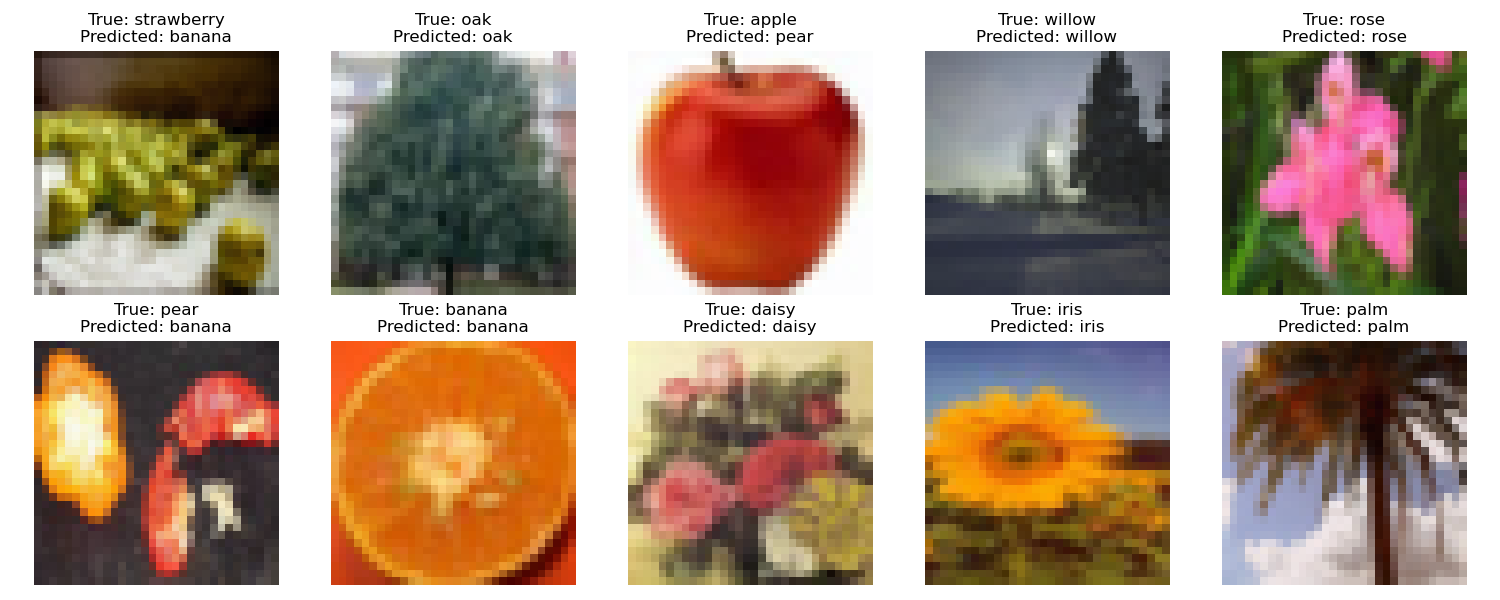
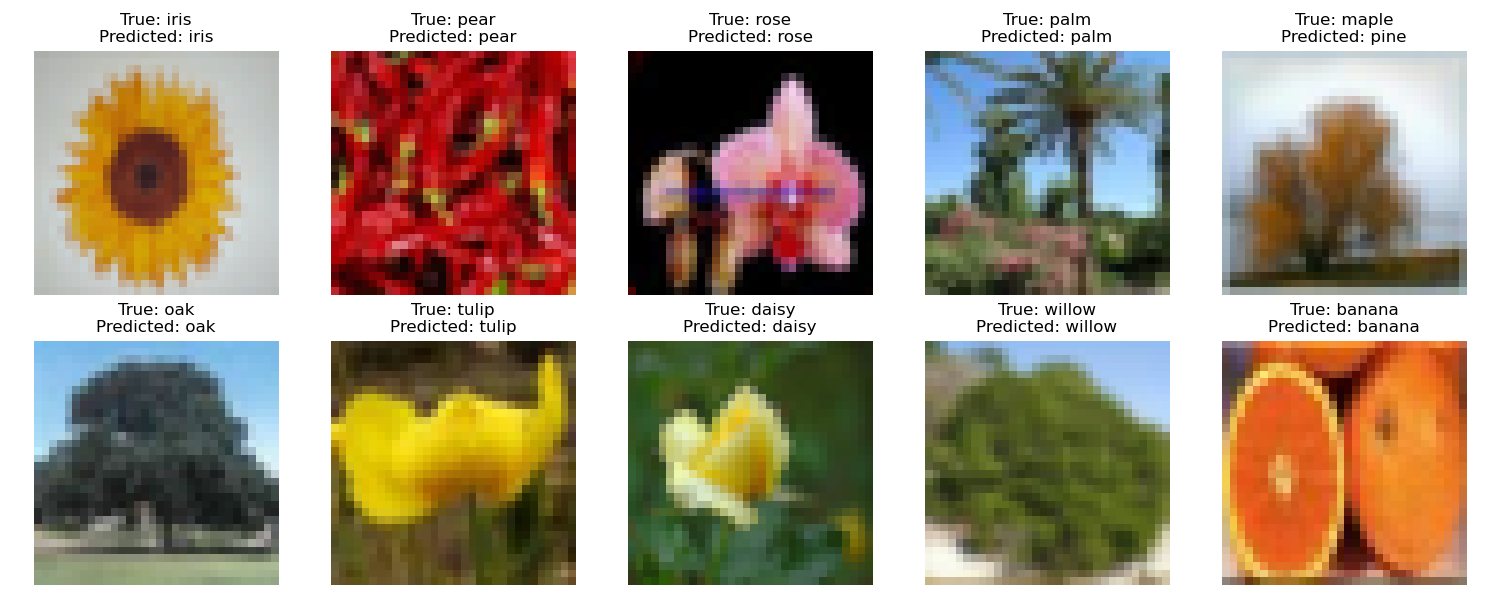
feat: add evaluation.py script and readme

diff --git a/evaluation.py b/evaluation.py
@@ -1,0 +1,63 @@
+#!/usr/bin/env python3
+import os
+import subprocess
+import time
+
+def run_evaluation():
+    """
+    Run both Task A and Task B evaluation scripts sequentially
+    and open the generated images.
+    """
+    print("=" * 50)
+    print("Starting evaluation for Task A...")
+    print("=" * 50)
+    
+    # Run Task A evaluation
+    subprocess.run(["python", "evaluate_task_a.py"], check=True)
+    
+    # Wait a moment to ensure files are saved
+    time.sleep(1)
+    
+    # Open Task A images
+    task_a_sample_predictions = "evaluation/TaskA/sample_predictions.png"
+    task_a_expert_analysis = "evaluation/TaskA/expert_analysis.png"
+    
+    if os.path.exists(task_a_sample_predictions):
+        print(f"\nOpening {task_a_sample_predictions}...")
+        subprocess.Popen(["open", task_a_sample_predictions])
+    
+    if os.path.exists(task_a_expert_analysis):
+        print(f"Opening {task_a_expert_analysis}...")
+        subprocess.Popen(["open", task_a_expert_analysis])
+    
+    # Wait a moment before starting Task B
+    time.sleep(2)
+    
+    print("\n" + "=" * 50)
+    print("Starting evaluation for Task B...")
+    print("=" * 50)
+    
+    # Run Task B evaluation
+    subprocess.run(["python", "evaluate_task_b.py"], check=True)
+    
+    # Wait a moment to ensure files are saved
+    time.sleep(1)
+    
+    # Open Task B images
+    task_b_sample_predictions = "evaluation/TaskB/sample_predictions.png"
+    task_b_expert_analysis = "evaluation/TaskB/expert_analysis.png"
+    
+    if os.path.exists(task_b_sample_predictions):
+        print(f"\nOpening {task_b_sample_predictions}...")
+        subprocess.Popen(["open", task_b_sample_predictions])
+    
+    if os.path.exists(task_b_expert_analysis):
+        print(f"Opening {task_b_expert_analysis}...")
+        subprocess.Popen(["open", task_b_expert_analysis])
+    
+    print("\n" + "=" * 50)
+    print("Evaluation complete!")
+    print("=" * 50)
+
+if __name__ == "__main__":
+    run_evaluation()

diff --git a/README.md b/README.md
@@ -2,6 +2,32 @@
 
 This repository contains a training framework for Mixture of Experts (MoE) models designed for multi-task learning.
 
+## Quick Start: Model Evaluation
+
+To evaluate both Task A and Task B models and view the results:
+
+```bash
+python evaluation.py
+```
+
+This will:
+1. Run evaluation for both Task A and Task B models
+2. Display performance metrics including overall accuracy and per-class accuracy
+3. Show sample predictions with expert gate contributions
+4. Automatically open visualization images showing:
+   - Sample predictions with randomly selected classes
+   - Expert analysis showing specialization patterns
+
+The evaluation script randomly selects 10 classes for visualization to ensure diverse representation of model performance.
+
+### Sample Visualizations
+
+#### Task A: 
+![Task A Sample Predictions](evaluation/TaskA/sample_predictions.png)
+
+#### Task B
+![Task B Sample Predictions](evaluation/TaskB/sample_predictions.png)
+
 ## Features
 
 - Automatic experiment management with timestamped directories
